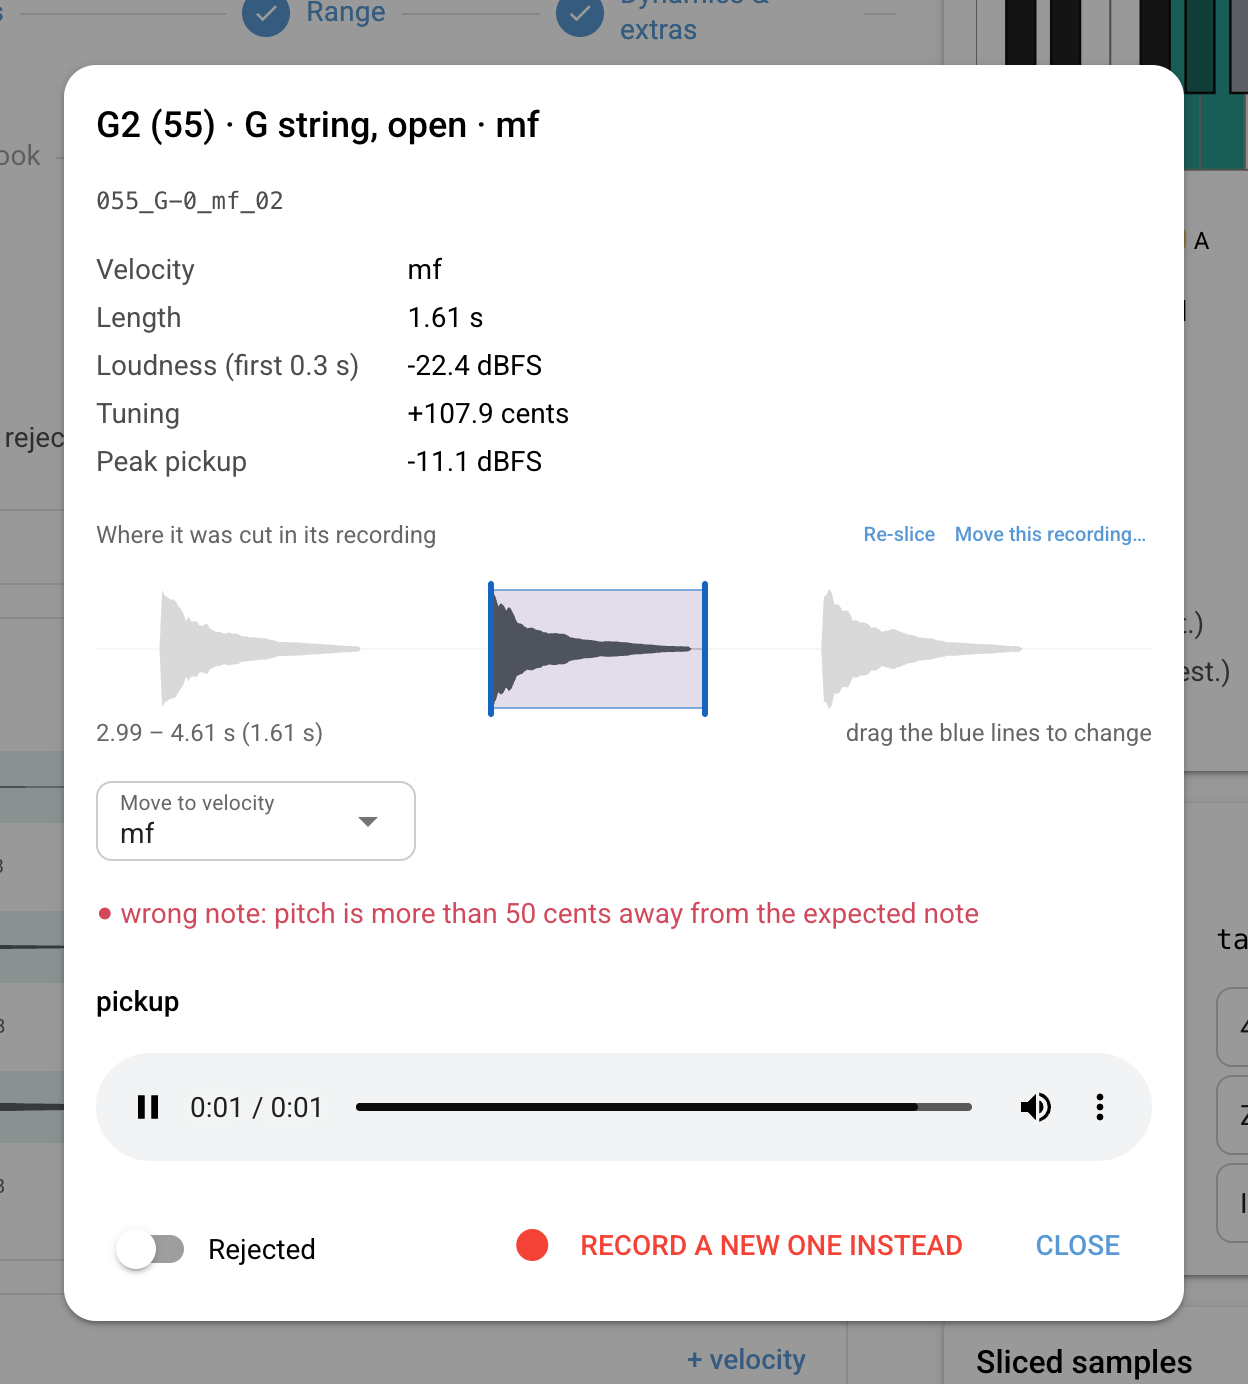
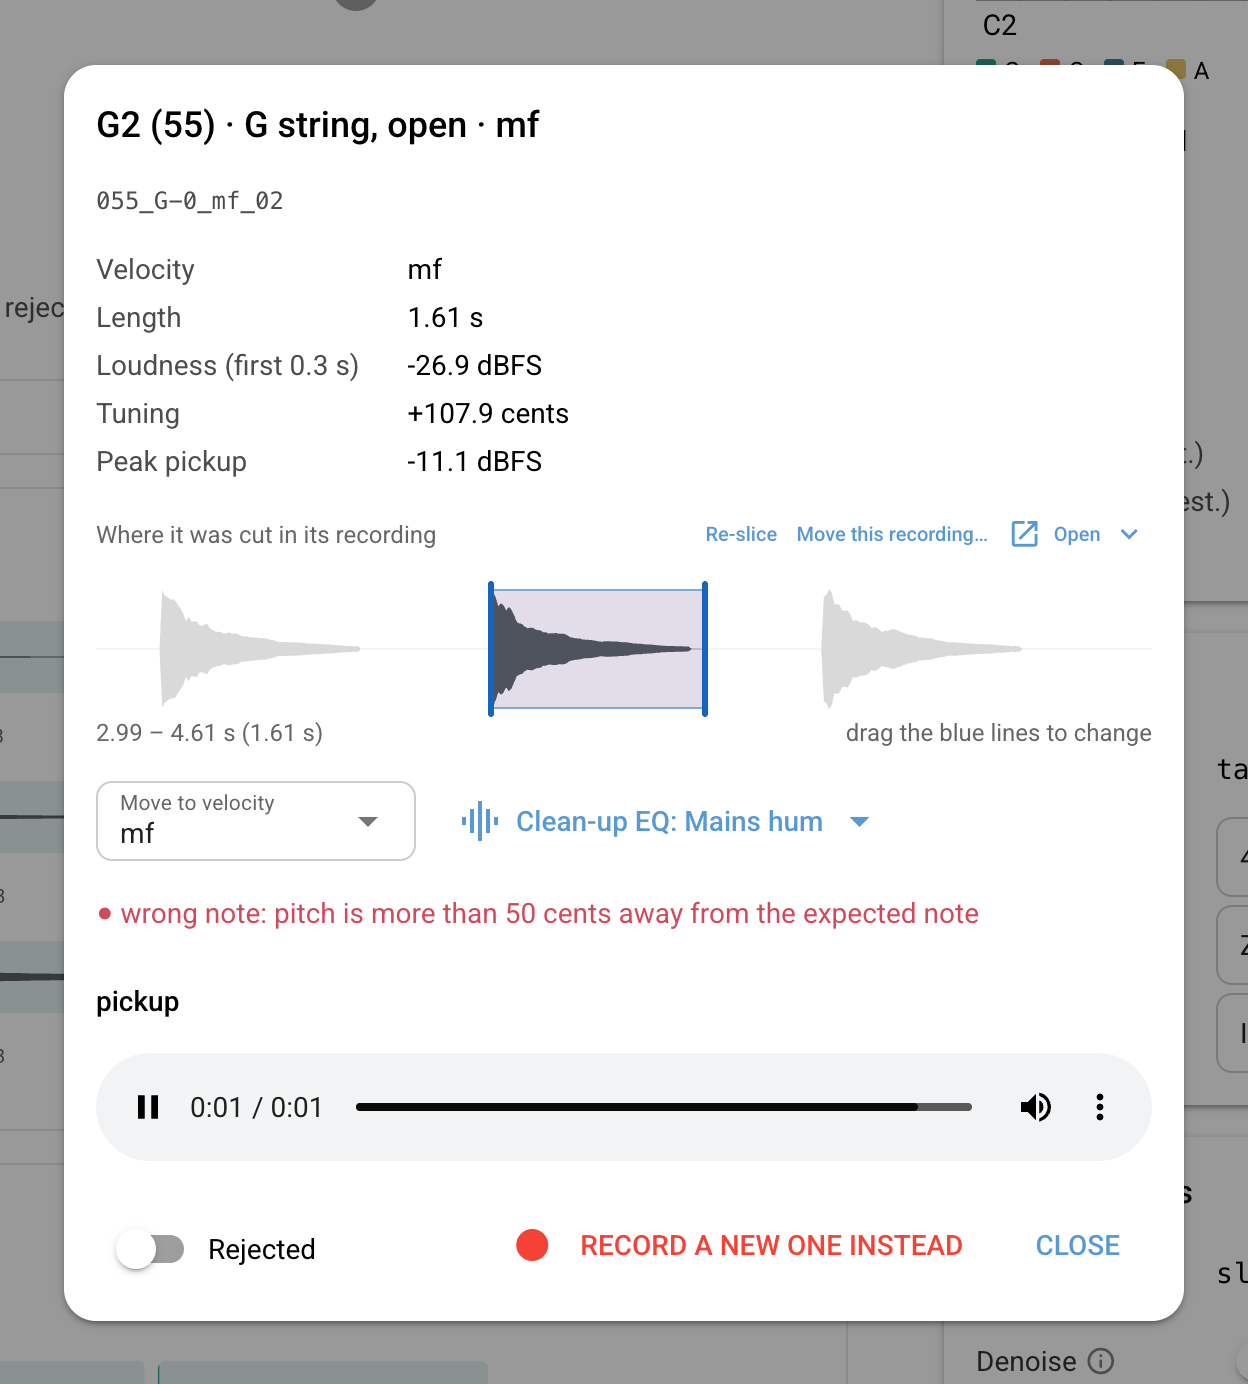
README: screenshots with the clean-up EQ and the Equalizer

diff --git a/docs/builder-ui.md b/docs/builder-ui.md
@@ -125,6 +125,8 @@ After importing, the worksheet works as for recorded takes. Change the folder's 
 - **Controls:** the knobs in the instrument, each with a switch: signal mix, tone or equalizer, low cut, attack, release, reverb, chorus, release-noise volume. A line under each switch says what it does, and its settings slide open beside it while it's on; only the controls that can do something in the instrument are listed. Attack isn't meant for plucked or struck strings: fading a note in only softens its pluck. Reverb also has a room size and a damping: how fast its tail loses its highs. More damping is warmer and keeps a pluck's click from ringing on as a hiss. The mod wheel drives the tone knob (without it, the first other knob, never the low cut or an EQ band).
 - **Low cut:** makes the frequencies below each note's own pitch quieter, e.g. the low resonance of a ukulele's body that rings on after the pluck: by the dB set, below the share of the pitch set. It's a steep curve, not a step, drawn beside its settings. It follows each note, so it never cuts into the low notes, and only pitched notes are affected, never extras or unpitched sounds. Its knob blends between the samples as recorded (0 %) and with the cut (100 %, where it starts); for that, the instrument also carries what the cut took out, as extra samples that play along with each note. It's applied when building, so you can change it, build and listen without slicing again. Loudness is evened out for the full cut, so notes with much low resonance play louder with the knob turned down. The soundfont always has the full cut.
 - **Equalizer** (instead of the tone knob; switching one on switches the other off): up to 8 bands (low and high shelf, peak, low and high cut, notch), drawn as a curve over the average spectrum of your samples. Drag a point to set its frequency and gain, scroll on it for its width (Q), double-click to add a band; or type the values in the table. **Listen** plays a few notes from low to high through the EQ, and **Hear with EQ** switches it off to compare. In the instrument, each peak and shelf gets a knob to boost or cut it, starting where you set it here; cuts and notches stay as set. Evening out and the level count the EQ as its knobs start. Boosts run after the level, so if they'd take the samples over full scale, the instrument plays just that much quieter, and the build says by how much. The soundfont has no effects, so it gets the EQ built into its samples.
+
+![The Equalizer: its bands as a curve over the spectrum of your samples](images/equalizer.png)
 - **Look:** a background image (812 × 375 px, PNG or JPG; drop it on the upload box or click +, and it's copied into the instrument's folder), and background, text and accent colours, each with a colour picker (the accent lights the knobs' arcs and tints the playable keys). The preview below shows the instrument as DecentSampler does: its knobs at their starting values, and its keyboard with the playable keys and the extras' keys tinted.
 
 Only the built instrument changes here; your recordings and sliced samples stay as they are.

diff --git a/README.md b/README.md
@@ -40,7 +40,7 @@ The builder walks you through seven steps. Everything is saved as you go, so you
 3. **Range:** for string instruments the strings, their tuning and how many frets; otherwise the lowest and highest note.
 4. **Dynamics & extras:** the velocities to record (e.g. soft and loud), how many variations of each note, and extra sounds such as release noise, a muted strum or a body knock.
 5. **Worksheet:** record, check and fix every note (see below).
-6. **Sound & look:** tuning correction, knobs, effects, colours and a background image.
+6. **Sound & look:** tuning correction, an equalizer, knobs, effects, colours and a background image.
 7. **Build:** creates the instrument, checks it, installs it into DecentSampler and can package it as a `.dslibrary` to share.
 
 ### Recording and checking in the worksheet
@@ -50,9 +50,16 @@ The builder walks you through seven steps. Everything is saved as you go, so you
 - **Every hit is cut and analysed for you:** you see its waveform, how far it is out of tune and how loud its attack is. Wrong notes, clipping and hits that belong to another velocity are flagged.
 - **Listen and compare:** ▶ plays the hits of a row one after another, so you can pick the best ones.
 - **Fix what's wrong:** click a hit to review it. You can reject it, record a new one instead, move it to another velocity (or drag it there), or drag the blue lines to change where it was cut.
+- **Clean up noise:** a clean-up EQ takes hum, buzz or a click's ring out of the recordings you pick; only the samples change, never your recordings. Hits it went through show a small EQ mark.
 - **Per-note velocities:** drag the dots on the slider beside a note to set where the next velocity starts, or add a velocity to just that note.
 
 ![Reviewing a hit: details, where it was cut, and what to do with it](docs/images/hit-review.png)
+
+### Shaping the sound
+
+The **Equalizer** in Sound & look draws its bands as a curve over the spectrum of your samples. Drag a point to shape it, scroll on it for its width, and **Listen** to a few notes through it. In the instrument, each band you boost or cut gets a knob of its own.
+
+![The Equalizer: its bands as a curve over the spectrum of your samples](docs/images/equalizer.png)
 
 ### Where your files go
 
